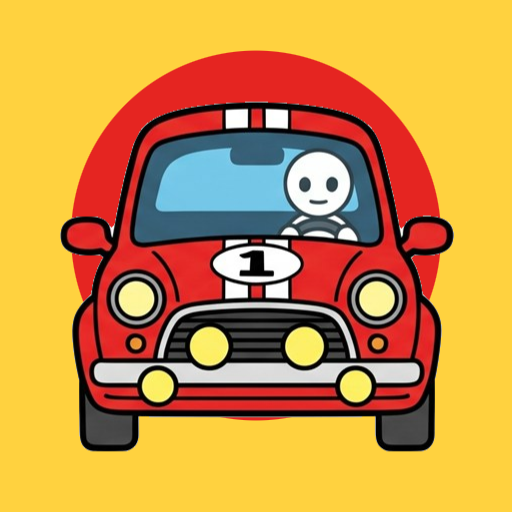
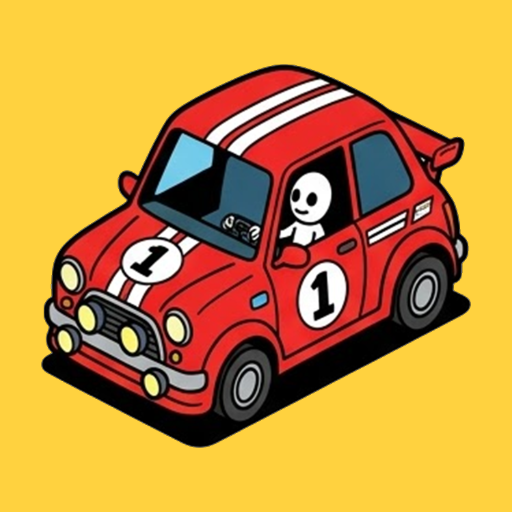
Icono nuevo: el coche 1 en isométrico sobre fondo amarillo

diff --git a/sw.js b/sw.js
@@ -1,7 +1,7 @@
 // TINY KURUMA GO! — funciona sin internet una vez abierto.
 // La página siempre se pide primero a la red (para tener la última versión) y, si no hay conexión, se usa la guardada.
 // La música no pasa por aquí: el navegador la pide por trozos y en iPhone daría problemas.
-const CACHE = 'tkg-v20';
+const CACHE = 'tkg-v20b';
 const CORE = ['./', './index.html', './manifest.json', './icon-180.png', './icon-192.png', './icon-512.png', './icon-mask-512.png'];
 
 self.addEventListener('install', e => {
